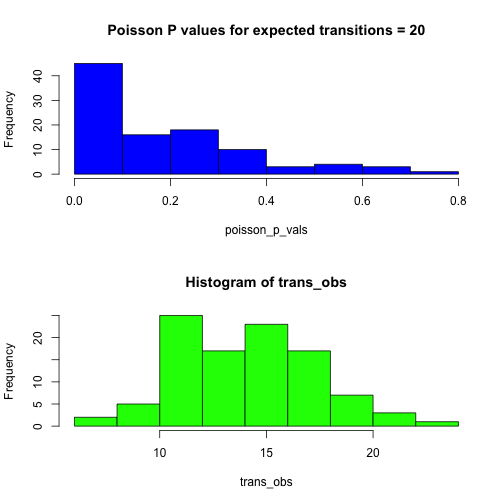
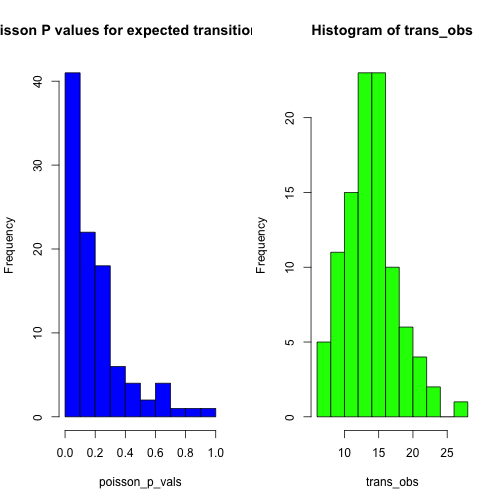
fixed plot layout

diff --git a/testing_examples/README.md b/testing_examples/README.md
@@ -53,7 +53,7 @@ for(i in 1:100){
   #if((i %% 10) == 0) print(paste('Running simulation', i, 'of', 1000, 'P=', round(poisson_p_vals[i], 2)))
 }
 
-par(mfrow = c(2, 1))
+par(mfrow = c(1, 2))
 hist(poisson_p_vals, col = 'blue', main = 'Poisson P values for expected transitions = 20')
 hist(trans_obs, col = 'green')
 ```
@@ -85,7 +85,7 @@ for(i in 1:100){
   #if((i %% 10) == 0) print(paste('Running simulation', i, 'of', 1000, 'P=', round(poisson_p_vals[i], 2)))
 }
 
-par(mfrow = c(2, 1))
+par(mfrow = c(1, 2))
 hist(poisson_p_vals, col = 'blue', main = "Poisson P values for expected transitions = 10")
 hist(trans_obs, col = 'green')
 ```
@@ -116,7 +116,7 @@ for(i in 1:100){
   #if((i %% 10) == 0) print(paste('Running simulation', i, 'of', 1000, 'P=', round(poisson_p_vals[i], 2)))
 }
 
-par(mfrow = c(2, 1))
+par(mfrow = c(1, 2))
 hist(poisson_p_vals, col = 'blue', main = "Poisson P values for expected transitions = 5")
 hist(trans_obs, col = 'green')
 ```
